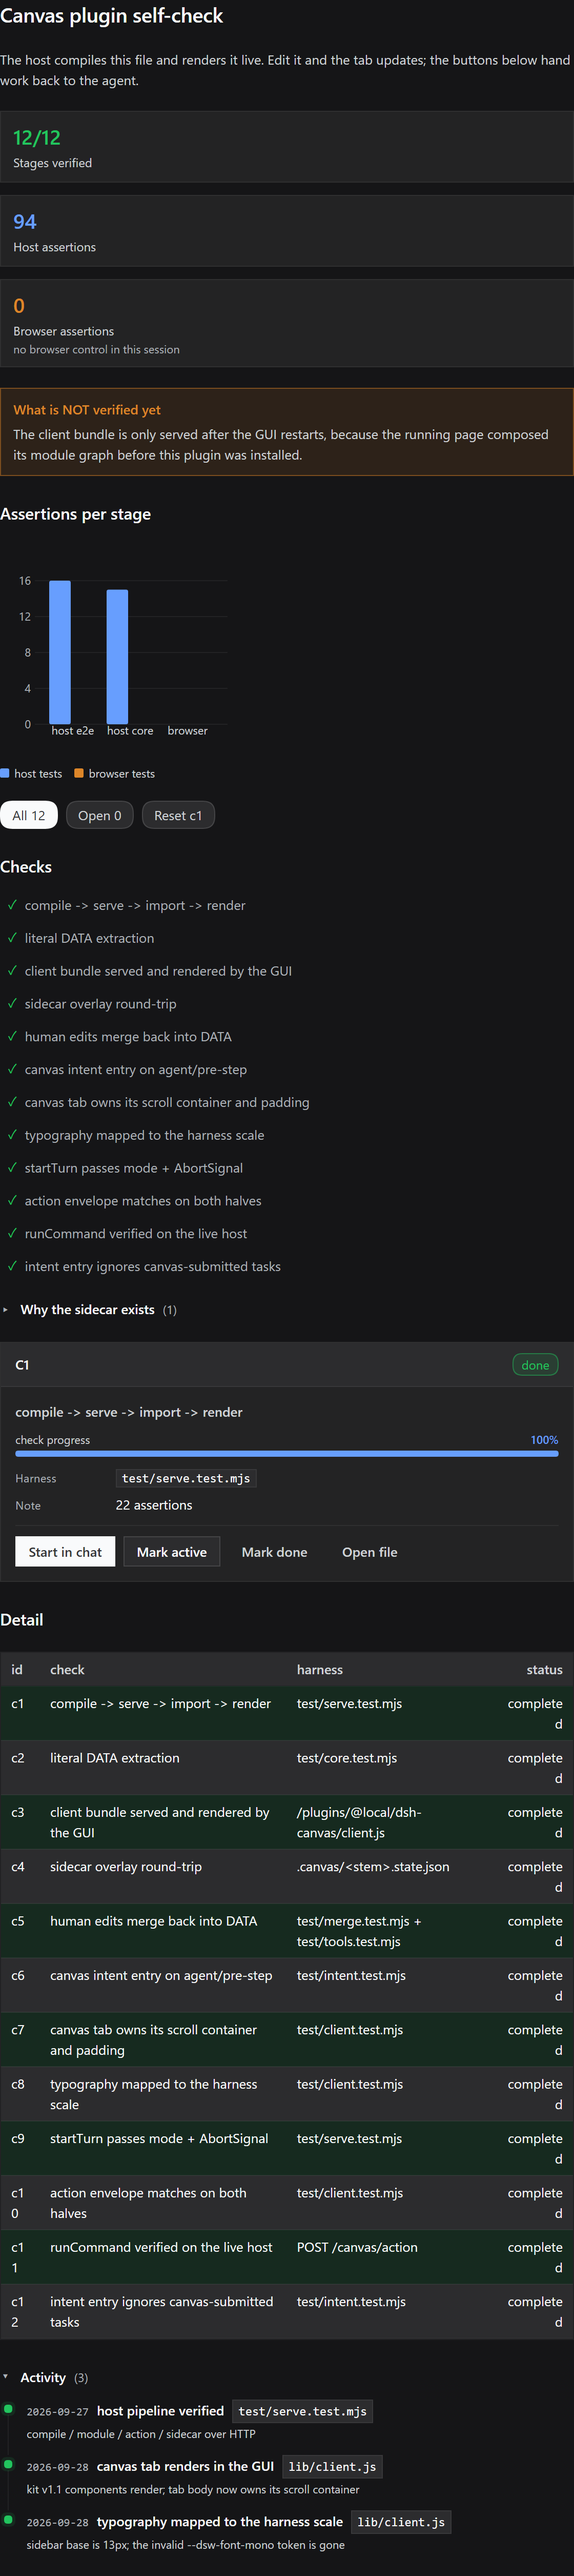
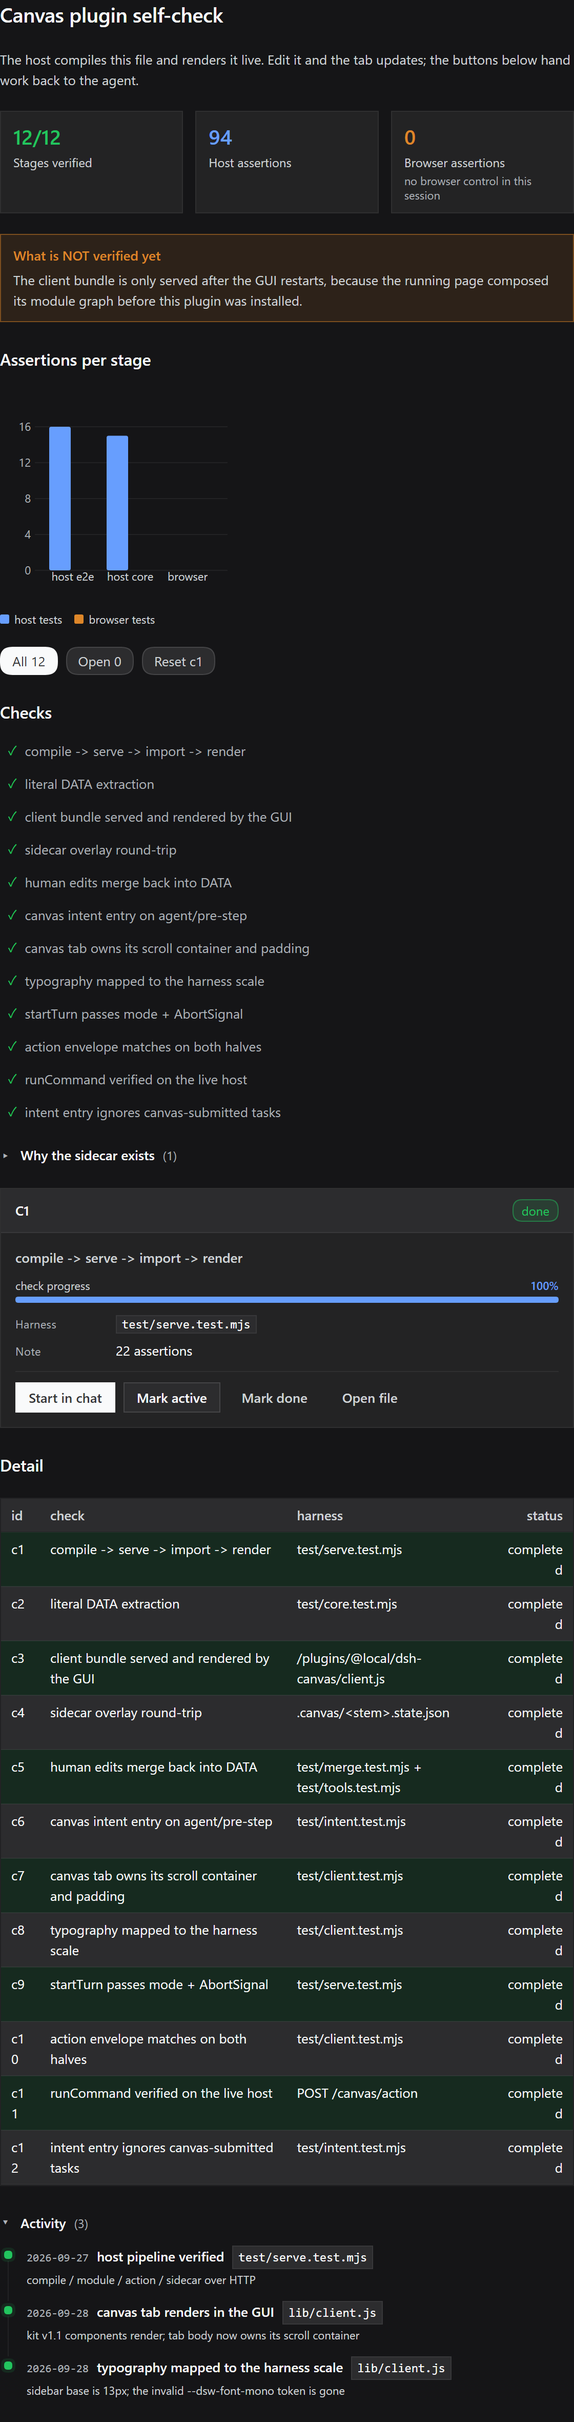
feat(canvas): 顶部概览卡恢复并排，并排规则改为「按内容量」判断
- 6 张画布顶部的 Stat 概览改回 <Grid columns="repeat(auto-fit, minmax(120px, 1fr))">：
  wide 时一行 4 张并排，窄栏（~380px）自动折成 2 列 —— 不再强制纵向
- 其余区块（风险 Callout / 待办 / 详情 / 下一步 / 明细 / 活动）保持纵向：它们承载
  句子、字段列表或表格，分栏在窄宽度下必然挤碎（标签折行、表格列被挤成竖排）
- 约定从「一律单列」改为「并排看内容量」，写进 kit.md 的 Grid 小节与 patterns.md
  开头；四类范式的结构图里 Stat 行改回 Grid auto-fit
- 6 张截图（浅/深）按新布局重新生成；board 仍是 r19

diff --git a/board.canvas.tsx b/board.canvas.tsx
@@ -4,7 +4,7 @@
  * icon: board
  */
 import {
-  H1, H2, Text, Code, Stack, Row, Divider, Card, CardBody, CardHeader,
+  H1, H2, Text, Code, Stack, Grid, Row, Divider, Card, CardBody, CardHeader,
   Callout, Stat, Table, TodoList, Pill, Button, Progress, KeyValue, Timeline,
   CollapsibleSection, useMemo, useCanvasState, useCanvasOverlay, useCanvasAction,
 } from "dsh/canvas";
@@ -328,7 +328,8 @@ export default function TaskBoard() {
         />
       </Stack>
 
-      <Stack gap={12}>
+      {/* 概览卡只有「一个数字 + 一句标签」，允许并排；auto-fit 让窄栏自动折成 2 列 */}
+      <Grid columns="repeat(auto-fit, minmax(120px, 1fr))" gap={12}>
         <Stat value={tasks.length} label="跟踪中" hint={"在办 " + open.length + " · 关闭 " + closed.length} />
         <Stat value={wip.length + "/" + DATA.wipLimit} label="在办 / WIP 上限" tone={wip.length > DATA.wipLimit ? "danger" : "info"} />
         <Stat
@@ -338,7 +339,7 @@ export default function TaskBoard() {
           hint={blocked.length > 0 ? blocked.map((task) => task.id).join("、") : "无"}
         />
         <Stat value={progressPct + "%"} label="加权进度" tone={progressPct >= 70 ? "success" : "warning"} hint={Math.round(weighted / 100) + " / " + estTotal + " 人日"} />
-      </Stack>
+      </Grid>
 
       {risks.length === 0 ? (
         <Callout tone="success" title="没有需要立即处理的风险">

diff --git a/skills/canvas/templates/board.canvas.tsx b/skills/canvas/templates/board.canvas.tsx
@@ -4,7 +4,7 @@
  * icon: board
  */
 import {
-  H1, H2, Text, Code, Stack, Row, Divider, Card, CardBody, CardHeader,
+  H1, H2, Text, Code, Stack, Grid, Row, Divider, Card, CardBody, CardHeader,
   Callout, Stat, Table, TodoList, Pill, Button, Progress, KeyValue, Timeline,
   CollapsibleSection, useMemo, useCanvasState, useCanvasOverlay, useCanvasAction,
 } from "dsh/canvas";
@@ -239,7 +239,8 @@ export default function TaskBoard() {
         />
       </Stack>
 
-      <Stack gap={12}>
+      {/* 概览卡只有「一个数字 + 一句标签」，允许并排；auto-fit 让窄栏自动折成 2 列 */}
+      <Grid columns="repeat(auto-fit, minmax(120px, 1fr))" gap={12}>
         <Stat value={tasks.length} label="跟踪中" hint={"在办 " + open.length + " · 关闭 " + closed.length} />
         <Stat value={wip.length + "/" + DATA.wipLimit} label="在办 / WIP 上限" tone={wip.length > DATA.wipLimit ? "danger" : "info"} />
         <Stat
@@ -249,7 +250,7 @@ export default function TaskBoard() {
           hint={blocked.length > 0 ? blocked.map((task) => task.id).join("、") : "无"}
         />
         <Stat value={progressPct + "%"} label="加权进度" tone={progressPct >= 70 ? "success" : "warning"} hint={Math.round(weighted / 100) + " / " + estTotal + " 人日"} />
-      </Stack>
+      </Grid>
 
       {risks.length === 0 ? (
         <Callout tone="success" title="没有需要立即处理的风险">

diff --git a/examples/selfcheck.canvas.tsx b/examples/selfcheck.canvas.tsx
@@ -4,7 +4,7 @@
  * icon: board
  */
 import {
-  H1, H2, Text, Code, Stack, Row, Divider, Card, CardBody, CardHeader,
+  H1, H2, Text, Code, Stack, Grid, Row, Divider, Card, CardBody, CardHeader,
   Callout, Stat, Table, BarChart, TodoList, Pill, Button, CollapsibleSection,
   Progress, KeyValue, Timeline,
   useCanvasState, useCanvasOverlay, useCanvasAction, useMemo,
@@ -86,11 +86,12 @@ export default function SelfCheck() {
         the buttons below hand work back to the agent.
       </Text>
 
-      <Stack gap={12}>
+      {/* 概览卡只有「一个数字 + 一句标签」，允许并排 */}
+      <Grid columns="repeat(auto-fit, minmax(120px, 1fr))" gap={12}>
         <Stat value={String(done) + "/" + String(rows.length)} label="Stages verified" tone="success" />
         <Stat value="94" label="Host assertions" tone="info" />
         <Stat value="0" label="Browser assertions" tone="warning" hint="no browser control in this session" />
-      </Stack>
+      </Grid>
 
       <Callout tone="warning" title="What is NOT verified yet">
         The client bundle is only served after the GUI restarts, because the running page

diff --git a/gates.canvas.tsx b/gates.canvas.tsx
@@ -9,6 +9,7 @@ import {
   Text,
   Code,
   Stack,
+  Grid,
   Row,
   Divider,
   Card,
@@ -116,12 +117,13 @@ export default function GateDashboard() {
         </Text>
       </Stack>
 
-      <Stack gap={16}>
+      {/* 概览卡只有「一个数字 + 一句标签」，允许并排 */}
+      <Grid columns="repeat(auto-fit, minmax(120px, 1fr))" gap={16}>
         <Stat value={gates.length} label="gates" />
         <Stat value={gates.filter((g) => g.status === "pass").length} label="pass" tone="success" />
         <Stat value={failing.length} label="fail" tone={failing.length > 0 ? "danger" : "neutral"} />
         <Stat value={gates.filter((g) => g.status === "acked").length} label="acked" tone="neutral" />
-      </Stack>
+      </Grid>
 
       {failing.length > 0 ? (
         <Callout tone="danger" title={String(failing.length) + " 条门禁未通过"}>

diff --git a/skills/canvas/templates/gates.canvas.tsx b/skills/canvas/templates/gates.canvas.tsx
@@ -9,6 +9,7 @@ import {
   Text,
   Code,
   Stack,
+  Grid,
   Row,
   Divider,
   Card,
@@ -140,12 +141,13 @@ export default function GateDashboard() {
         </Text>
       </Stack>
 
-      <Stack gap={16}>
+      {/* 概览卡只有「一个数字 + 一句标签」，允许并排 */}
+      <Grid columns="repeat(auto-fit, minmax(120px, 1fr))" gap={16}>
         <Stat value={gates.length} label="gates" />
         <Stat value={gates.filter((g) => g.status === "pass").length} label="pass" tone="success" />
         <Stat value={failing.length} label="fail" tone={failing.length > 0 ? "danger" : "neutral"} />
         <Stat value={gates.filter((g) => g.status === "acked").length} label="acked" tone="neutral" />
-      </Stack>
+      </Grid>
 
       {failing.length > 0 ? (
         <Callout tone="danger" title={String(failing.length) + " 条门禁未通过"}>

diff --git a/skills/canvas/templates/blank.canvas.tsx b/skills/canvas/templates/blank.canvas.tsx
@@ -8,6 +8,7 @@ import {
   Text,
   Code,
   Stack,
+  Grid,
   Stat,
   Callout,
   CollapsibleSection,
@@ -35,11 +36,12 @@ export default function BlankCanvas() {
         <Text tone="secondary">{DATA.note}</Text>
       </Stack>
 
-      <Stack gap={16}>
+      {/* 概览卡只有「一个数字 + 一句标签」，允许并排 */}
+      <Grid columns="repeat(auto-fit, minmax(120px, 1fr))" gap={16}>
         <Stat value={total} label="items" />
         <Stat value={done} label="completed" tone="success" />
         <Stat value={total - done} label="open" tone="warning" />
-      </Stack>
+      </Grid>
 
       <Callout tone="info" title="下一步">
         <Stack gap={4}>

diff --git a/skills/canvas/references/patterns.md b/skills/canvas/references/patterns.md
@@ -11,7 +11,7 @@
 
 四类共用的骨架顺序都是：**标题 → Stat 概览 → 约束/风险 Callout → 筛选 → 主体 → 明细**。顺序不要乱：人第一眼要看到"总量与红点"，最后才看细节。
 
-**一律单列。** 画布活在右栏：宽度可变、默认偏窄，还有全屏模式——左右分栏在窄宽度下必然挤碎（标签折行、表格列被挤成竖排）。所有区块从上到下排；只有 Pill / Button / 徽标这类小控件允许放进 `Row`（并且要 `wrap`）。`Grid` 保留给确实需要并排的场景，**范式里不再使用它**。
+**并排看内容量。** 卡片里只有「一个数字 + 一句标签」这种短内容（例如顶部的 Stat 概览）就并排——用 `<Grid columns="repeat(auto-fit, minmax(120px, 1fr))">`，窄栏会自动折成 2 列。承载句子、字段列表、表格的内容（待办 / 详情 / 明细 / 时间线）一律纵向：右栏宽度可变、默认偏窄，把长内容分栏必然挤碎（标签折行、表格列被挤成竖排）。Pill / Button / 徽标这类小控件可以放进 `Row`（记得 `wrap`）。
 
 ---
 
@@ -24,7 +24,7 @@
 ~~~text
 H1 + Text(目标) + Text(快照日 / 修订 / WIP 上限)
 Progress              -> 加权进度（按估算人日，不是条目计数）
-Stack                 -> Stat 总数(带在办/关闭) → 在办-WIP → 阻塞 → 加权进度（逐个纵向）
+Grid auto-fit         -> Stat 总数(带在办/关闭) / 在办-WIP / 阻塞 / 加权进度（一行并排，窄栏自动折 2 列）
 Callout               -> 从数据派生的风险清单（阻塞 / 超期未更新 / WIP 超限 / 超估算）
 Row wrap              -> Pill 筛选（在办 / 阻塞 / 已关闭 / 全部 / 按分组）
 Stack                 -> 主体：待办在前，详情在后
@@ -123,7 +123,7 @@ const active = merged.find((t) => t.id === activeId) ?? open[0];
 
 ~~~text
 H1 + Text(基线是什么、怎么复现)
-Stack                 -> Stat 通过 → 失败 → 未跑（逐个纵向）
+Grid auto-fit         -> Stat 通过 / 失败 / 未跑（一行并排）
 Callout danger        -> 失败清单（有失败时才渲染）
 Table                 -> Gate | 基线 | 最近 | Δ | 状态 | 操作(每行一个 Run 按钮)
 Row                   -> Run all 按钮 + 最近一次运行时间
@@ -189,7 +189,7 @@ v1 没有专用时间线组件——用 `Table` + 分组实现，效果一样且
 
 ~~~text
 H1 + Text(时间范围)
-Stack                 -> Stat 本轮 → 累计 → 停滞天数（逐个纵向）
+Grid auto-fit         -> Stat 本轮 / 累计 / 停滞天数（一行并排）
 BarChart (可选)        -> 每天/每轮的事件计数
 CollapsibleSection(每天/每轮, defaultOpen=最近一个)
    Table              -> 时间 | 事件 | 状态 | 证据

diff --git a/skills/canvas/references/kit.md b/skills/canvas/references/kit.md
@@ -112,7 +112,7 @@ type Status = "pending" | "in_progress" | "blocked" | "completed" | "cancelled";
 | `gap` | `number` | `16` | 间距 |
 | `align` | 同 `Stack` | — | 交叉轴对齐 |
 
-> **画布默认单列。** 右栏宽度可变、默认偏窄（还有全屏模式），左右分栏在窄宽度下会把标签和表格列挤碎。看板 / 门禁 / 时间线三类范式全部纵向排列；`Grid` 只留给确实需要并排的场景，不要用它把「待办 + 详情」这类主从内容并起来。
+> **并排看内容量。** 卡片里只有「一个数字 + 一句标签」这种短内容——例如顶部的 Stat 概览——就并排：`columns="repeat(auto-fit, minmax(120px, 1fr))"` 会让窄栏自动折成 2 列。承载句子、字段列表或表格的内容（待办 / 详情 / 明细 / 时间线）一律纵向：右栏宽度可变、默认偏窄，把长内容分栏必然挤碎。
 
 ~~~tsx
 {/* 概览指标：三列等宽 */}
